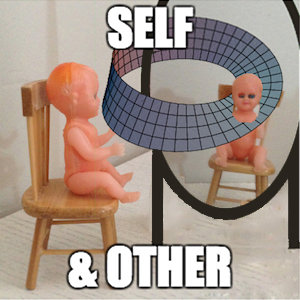
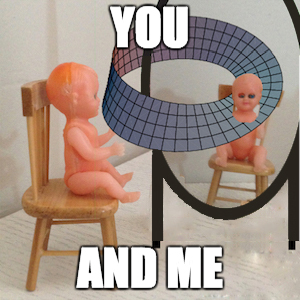
Image changes more

diff --git a/index2.html b/index2.html
@@ -53,11 +53,11 @@
     <div class="container">
     <div class="row">
     <div class="col text-center">
-    <img src="img/choices.png">
+    <img src="img/choices.gif">
     </div>
     </div>
 
-      <h3>An overdue welcome to the Flat Universe!  You may not have known it, but you have been in this Universe all along.  Navigate these surfaces and choose your own identity and journey.  When you find David Junior sitting in his chair, you will have reached an endpoint.</h3>
+      <h3>An overdue welcome to the land of quantum identities!  You may not have known it, but you have been in this Universe all along.  Follow David Junior and choose your adventure.</h3>
       <div class="row">
         <div class="col-xs-6 text-center">
         <a href="chair.html" class="scene1"><img class="response1 img-thumbnail" src="img/scene1.jpg" onmouseover="rollover(this)" onmouseout="mouseaway(this)" border="0"/><img class="response2" src="img/scene1.gif"></a>
